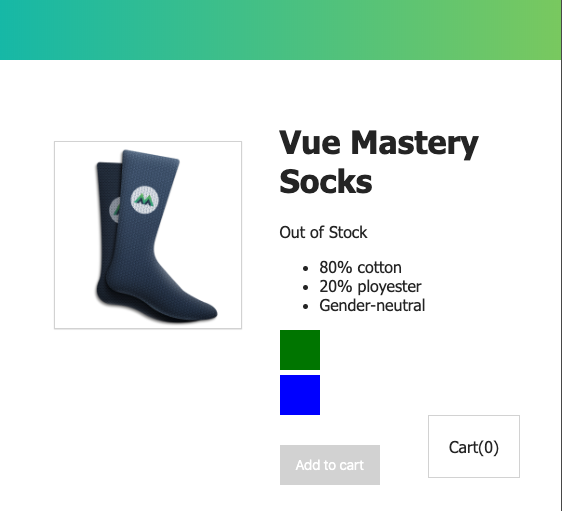
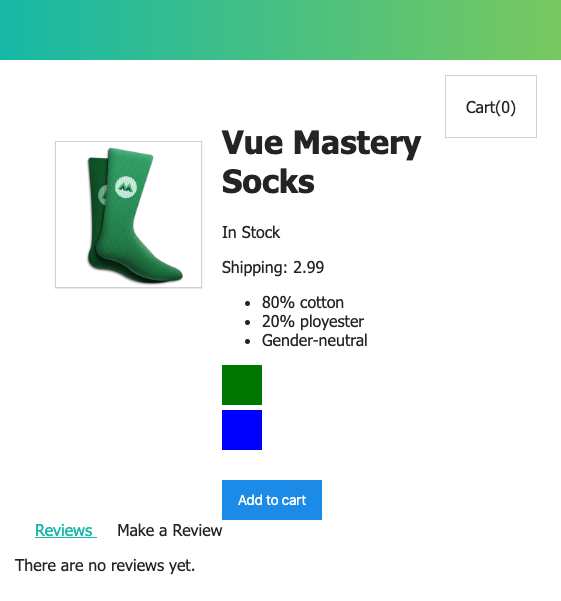
2. Working with components, communicating events, forms

diff --git a/main.js b/main.js
@@ -1,34 +1,77 @@
-const app = new Vue({
-  el: '#app',
-  data: {
-    brand: 'Vue Mastery',
-    product: 'Socks',
-    selectedVariant: 0,
-    inventory: 5,
-    details: ['80% cotton', '20% ployester', 'Gender-neutral'],
-    variants: [
-      {
-        id: 1,
-        color: 'green',
-        image: './assets/vmSocks-green-onWhite.jpg',
-        quantity: 10
-      },
-      {
-        id: 2,
-        color: 'blue',
-        image: './assets/vmSocks-blue-onWhite.jpg',
-        quantity: 0
-      }
-    ],
-    cart: 0
+const eventBus = new Vue();
+
+Vue.component('product', {
+  props: {
+    premium: {
+      type: Boolean,
+      required: true
+    }
+  },
+  template: `
+            <div class="product">
+            <div class="product-image">
+            <img v-bind:src="image" />
+            </div>
+            <div class="product-info">
+            <h1>{{title}}</h1>
+            <p v-if="inStock">In Stock</p>
+            <p v-else :class="{outOfStock:!inStock}">Out of Stock</p>
+            <p>Shipping: {{shipping}}</p>
+
+            <ul>
+                <li v-for="detail in details">{{detail}}</li>
+            </ul>
+
+            <div
+                v-for="(variant, index) in variants"
+                :key="variant.id"
+                class="color-box"
+                :style="{backgroundColor:variant.color}"
+                @mouseover="updateProduct(index)"
+            ></div>
+
+            <button
+                v-on:click="addToCart"
+                :disabled="!inStock"
+                :class="{disabledButton:!inStock}"
+            >
+                Add to cart
+            </button>
+            </div>
+
+            <product-tabs :reviews="reviews"></product-tabs>
+            </div>
+  `,
+  data() {
+    return {
+      brand: 'Vue Mastery',
+      product: 'Socks',
+      selectedVariant: 0,
+      inventory: 5,
+      details: ['80% cotton', '20% ployester', 'Gender-neutral'],
+      variants: [
+        {
+          id: 1,
+          color: 'green',
+          image: './assets/vmSocks-green-onWhite.jpg',
+          quantity: 10
+        },
+        {
+          id: 2,
+          color: 'blue',
+          image: './assets/vmSocks-blue-onWhite.jpg',
+          quantity: 0
+        }
+      ],
+      reviews: []
+    };
   },
   methods: {
     addToCart: function() {
-      this.cart += 1;
+      this.$emit('add-to-cart', this.variants[this.selectedVariant].id);
     },
     updateProduct: function(index) {
       this.selectedVariant = index;
-      console.log(index);
     }
   },
   computed: {
@@ -38,8 +81,136 @@ const app = new Vue({
     image() {
       return this.variants[this.selectedVariant].image;
     },
-    inStock(){
-        return this.variants[this.selectedVariant].quantity
+    inStock() {
+      return this.variants[this.selectedVariant].quantity;
+    },
+    shipping() {
+      return this.premium ? 'Free' : 2.99;
+    }
+  },
+  mounted() {
+    eventBus.$on('review-submitted', productReview => {
+      this.reviews.push(productReview);
+    });
+  }
+});
+
+Vue.component('product-review', {
+  template: `
+    <form class="review-form" @submit.prevent="onSubmit">
+
+    <p v-if="errors.length">
+        <b>Please correct the following error(s):</b>
+        <ul>
+            <li v-for="error in errors">
+                {{error}}
+            </li>
+        </ul>
+    </p>
+
+    <p>
+        <label for="name">Name:</label>
+        <input id="name" v-model="name" placeholder="name">
+    </p>
+    
+    <p>
+        <label for="review">Review:</label>      
+        <textarea id="review" v-model="review"></textarea>
+    </p>
+    
+    <p>
+        <label for="rating">Rating:</label>
+        <select id="rating" v-model.number="rating">
+        <option>5</option>
+        <option>4</option>
+        <option>3</option>
+        <option>2</option>
+        <option>1</option>
+        </select>
+    </p>
+        
+    <p>
+        <input type="submit" value="Submit">
+    </p>    
+
+    </form>
+  `,
+  data() {
+    return {
+      name: null,
+      review: null,
+      rating: null,
+      errors: []
+    };
+  },
+  methods: {
+    onSubmit() {
+      if (this.name && this.review && this.rating) {
+        let productReview = {
+          name: this.name,
+          review: this.review,
+          rating: this.rating
+        };
+        eventBus.$emit('review-submitted', productReview);
+        this.name = null;
+        this.review = null;
+        this.rating = null;
+      } else {
+        if (!this.name) this.errors.push('Name required');
+        if (!this.review) this.errors.push('Review required');
+        if (!this.rating) this.errors.push('Rating required');
+      }
+    }
+  }
+});
+
+Vue.component('product-tabs', {
+  props: {
+    reviews: {
+      type: Array,
+      required: true
+    }
+  },
+  template: `
+    <div>
+        <span class="tab"
+              :class="{activeTab:selectedTab===tab}"
+              v-for="(tab, index) in tabs"
+              :key="index"
+              @click="selectedTab=tab">
+            {{tab}}
+        </span>
+
+        <div v-show="selectedTab==='Reviews'">
+            <p v-if="reviews.length===0">There are no reviews yet.</p>
+            <ul>
+                <li v-for="review in reviews">
+                    <p>{{review.name}}</p>
+                    <p>Rating: {{review.rating}}</p>
+                    <p>{{review.review}}</p>
+                </li>
+            </ul>
+        </div>
+        <product-review v-show="selectedTab==='Make a Review'"></product-review>
+    </div>
+  `,
+  data() {
+    return {
+      tabs: ['Reviews', 'Make a Review'],
+      selectedTab: 'Reviews'
+    };
+  }
+});
+
+const app = new Vue({
+  el: '#app',
+  data: {
+    premium: false,
+    cart: []
+  },
+  methods: {
+    updateCart(id) {
+      this.cart.push(id);
     }
   }
 });

diff --git a/index.html b/index.html
@@ -9,37 +9,8 @@
     <div class="nav-bar"></div>
 
     <div id="app">
-      <div class="product">
-        <div class="product-image">
-          <img v-bind:src="image" />
-        </div>
-        <div class="product-info">
-          <h1>{{title}}</h1>
-          <p v-if="inStock">In Stock</p>
-          <p v-else :class="{outOfStock:!inStock}">Out of Stock</p>
-
-          <ul>
-            <li v-for="detail in details">{{detail}}</li>
-          </ul>
-
-          <div
-            v-for="(variant, index) in variants"
-            :key="variant.id"
-            class="color-box"
-            :style="{backgroundColor:variant.color}"
-            @mouseover="updateProduct(index)"
-          ></div>
-          <div class="cart"><p>Cart({{cart}})</p></div>
-
-          <button
-            v-on:click="addToCart"
-            :disabled="!inStock"
-            :class="{disabledButton:!inStock}"
-          >
-            Add to cart
-          </button>
-        </div>
-      </div>
+      <div class="cart"><p>Cart({{cart.length}})</p></div>
+      <product :premium="premium" @add-to-cart="updateCart"></product>
     </div>
 
     <script src="https://cdn.jsdelivr.net/npm/vue/dist/vue.js"></script>

diff --git a/README.md b/README.md
@@ -9,6 +9,12 @@
 - Class & Style Binding
 - Computed Properties
 
+### 2. Working with components, communicating events, forms
+- Components
+- Communicating Events
+- Forms
+- Tabs
+
 More information [here](https://www.vuemastery.com/courses/intro-to-vue-js)
 
 ![App Screenshot](/docs/img/app-screenshot.png?raw=true "App Screenshot")
